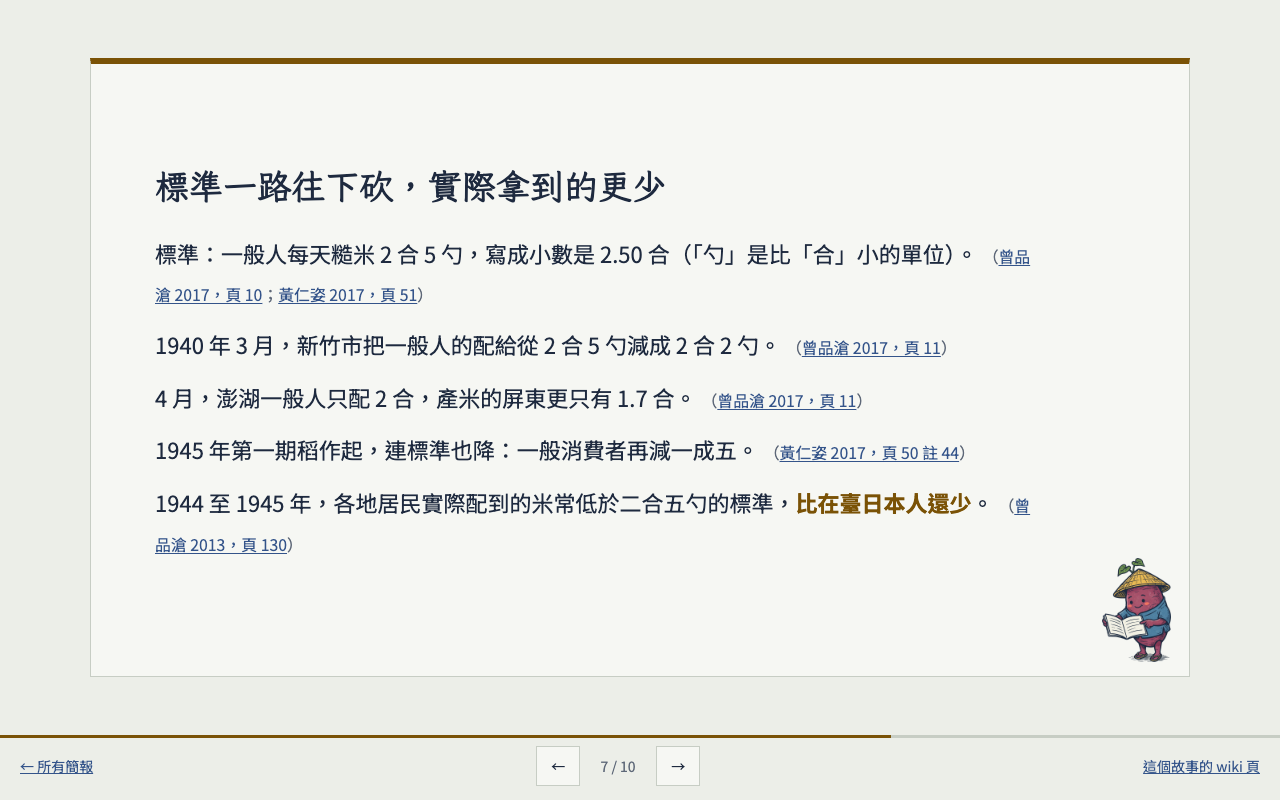
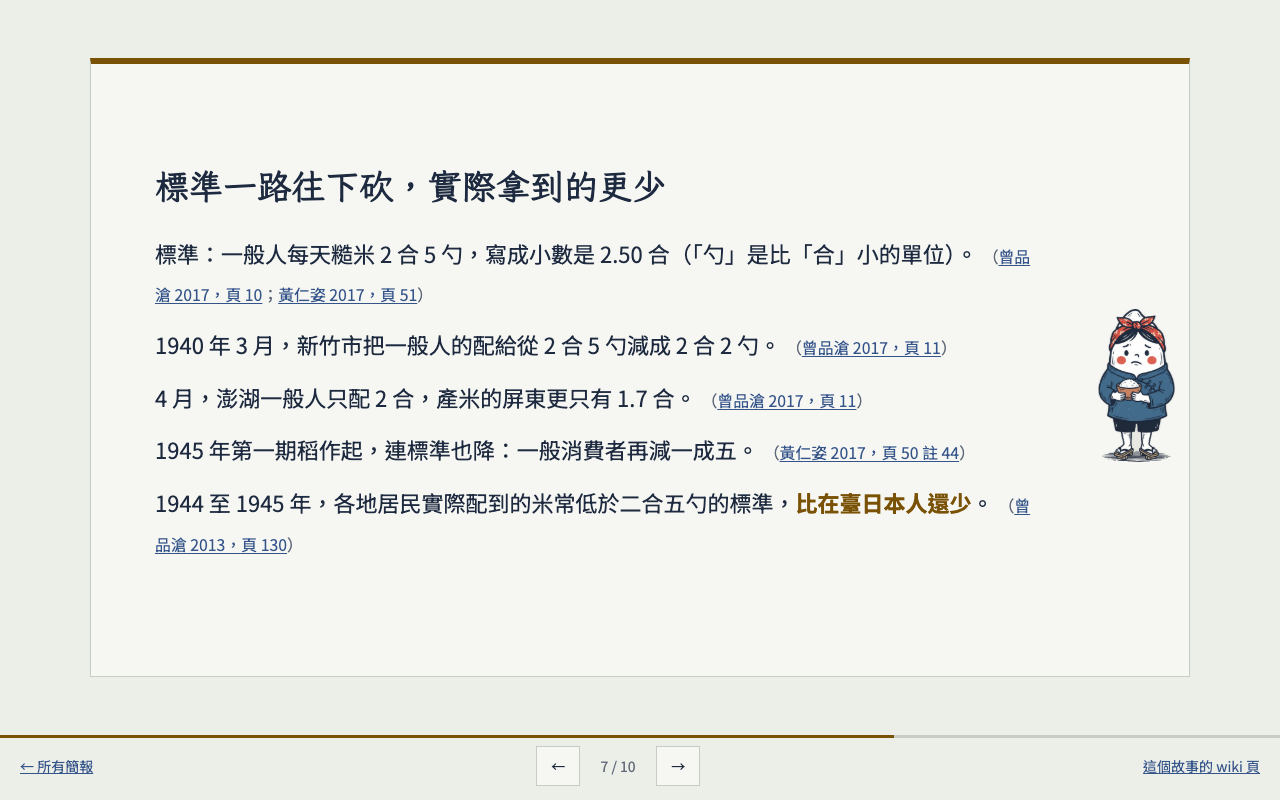
吉祥物依內容指定頁面與位置，顯示時自動避開文字

Changed region(s): [[0.8438, 0.375, 0.9375, 0.5938], [0.8438, 0.6875, 0.9375, 0.8438]]

diff --git a/slides/t-rice-ration/deck.html b/slides/t-rice-ration/deck.html
@@ -84,8 +84,8 @@ figcaption{font-size:.8em;color:var(--muted)}
 }
 /* 吉祥物：每次開啟隨機挑角色與頁面，放在頁角，不擋字 */
 .slide{position:relative}
-.mascot{position:absolute;bottom:14px;height:clamp(84px,17%,150px);width:auto;pointer-events:none;user-select:none}
-.mascot.r{right:18px} .mascot.l{left:18px}
+.mascot{position:absolute;height:clamp(96px,25%,190px);width:auto;pointer-events:none;user-select:none}
+.at-br{right:18px;bottom:14px}.at-tr{right:22px;top:16px}.at-bl{left:18px;bottom:14px}.at-tl{left:22px;top:16px}.at-mr{right:14px;top:40%}
 .mascot.flip{transform:scaleX(-1)}
 </style>
 </head>
@@ -94,13 +94,13 @@ figcaption{font-size:.8em;color:var(--muted)}
 <section class="slide layout-cover" id="p1" aria-label="第 1 頁"><div class="inner"><div class="cover"><div class="ticket"><span class="stub">主</span><div><p class="series">戰時餐桌・故事簡報</p><h1>一天能吃多少米？</h1><p class="sub">1940 年起，農家多的米要交給政府，大家吃的米由政府來分配。</p><p class="meta">臺灣 1939–1945　·　共 10 頁　·　用 ← → 或滑動翻頁</p></div></div><img class="cover-img" src="../../assets/img/t-rice-ration.jpg" alt="木刻版畫風插畫：田邊的收購場，農民挑著稻穀排隊，辦事員用大秤秤重、登記。"></div></div></section>
 <section class="slide layout-goals" id="p2" aria-label="第 2 頁"><div class="inner"><h2>看完這份簡報，你能……</h2><ol class='goals'><li>說得出 1940 年起，米從農家到餐桌要經過哪些關卡</li><li>能舉出一個數字，說明配給的「標準」和人們「實際」拿到的差多少</li><li>能說出兩種人們面對配給不足的應變方法</li></ol></div></section>
 <section class="slide layout-text" id="p3" aria-label="第 3 頁"><div class="inner"><h2>為什麼 1940 年開始管米？</h2><p>1939 年朝鮮大旱，隔年朝鮮運到日本的米，從 5,690 千石掉到 395 千石（石是當時量米的容量單位）。 <span class="cites">（<a class="cite" href="https://github.com/YuCecil/wartime-food-wiki/blob/main/wiki/sources/s-2009-li-grain-regulation.md" target="_blank" rel="noopener">李力庸 2009，頁 77</a>）</span></p><p>日本只好要臺灣補上缺口：1940 年臺灣要運出 5,000 千石，比前一年更多。 <span class="cites">（<a class="cite" href="https://github.com/YuCecil/wartime-food-wiki/blob/main/wiki/sources/s-2009-li-grain-regulation.md" target="_blank" rel="noopener">李力庸 2009，頁 77–78</a>）</span></p><p>同年 5 月，臺灣總督府宣布：一期稻作的米全部由政府管理。 <span class="cites">（<a class="cite" href="https://github.com/YuCecil/wartime-food-wiki/blob/main/wiki/sources/s-2017-huang-wartime-food-management.md" target="_blank" rel="noopener">黃仁姿 2017，頁 46–47</a>）</span></p><p>日本本土要到 10 月才跟進，<strong>殖民地反而比本土早一步</strong>。 <span class="cites">（<a class="cite" href="https://github.com/YuCecil/wartime-food-wiki/blob/main/wiki/sources/s-2017-huang-wartime-food-management.md" target="_blank" rel="noopener">黃仁姿 2017，頁 47</a>）</span></p></div></section>
-<section class="slide layout-text" id="p4" aria-label="第 4 頁"><div class="inner"><h2>米從田裡到餐桌的關卡</h2><p><strong>收米</strong>：農家扣掉自己要吃的和種子，其餘由政府用公定價格強制收購。 <span class="cites">（<a class="cite" href="https://github.com/YuCecil/wartime-food-wiki/blob/main/wiki/sources/s-2017-tseng-table-war.md" target="_blank" rel="noopener">曾品滄 2017，頁 9</a>）</span></p><p><strong>綁住</strong>：沒交足規定的量，就領不到配給。 <span class="cites">（<a class="cite" href="https://github.com/YuCecil/wartime-food-wiki/blob/main/wiki/sources/s-2015-tseng-postwar-food-control.md" target="_blank" rel="noopener">曾獻緯 2015，頁 59</a>）</span></p><p><strong>盯著</strong>：經濟警察負責確保糧食配給、限制自由買賣。 <span class="cites">（<a class="cite" href="https://github.com/YuCecil/wartime-food-wiki/blob/main/wiki/sources/s-2025-lu-police-society.md" target="_blank" rel="noopener">陸文楓 2025，頁 47</a>）</span></p><p><strong>分米</strong>：1943 年底起，配給交給新成立、專管糧食配給的「台灣食糧營團」，收購由農業會負責。 <span class="cites">（<a class="cite" href="https://github.com/YuCecil/wartime-food-wiki/blob/main/wiki/sources/s-2019-huang-irrigation-farm-org.md" target="_blank" rel="noopener">黃仁姿、薛化元 2019，頁 133</a>；<a class="cite" href="https://github.com/YuCecil/wartime-food-wiki/blob/main/wiki/sources/s-2009-li-grain-regulation.md" target="_blank" rel="noopener">李力庸 2009，頁 97</a>）</span></p><p><strong>買米</strong>：一般家庭拿著配給券，大約一個月去買兩次米。 <span class="cites">（<a class="cite" href="https://github.com/YuCecil/wartime-food-wiki/blob/main/wiki/sources/s-2009-li-grain-regulation.md" target="_blank" rel="noopener">李力庸 2009，頁 93</a>）</span></p></div></section>
-<section class="slide layout-number" id="p5" aria-label="第 5 頁"><div class="inner"><h2>收成的米，有多少要交出去？</h2><p class="big"><span class="stamp-num">85.30%</span><span class="big-label">1944 年，臺灣的米交給政府的比例</span></p><p>這個比例叫「供出率」：交給政府的量，占實際收成的多少。 <span class="cites">（<a class="cite" href="https://github.com/YuCecil/wartime-food-wiki/blob/main/wiki/sources/s-2009-li-grain-regulation.md" target="_blank" rel="noopener">李力庸 2009，頁 94</a>）</span></p><p>同一年，朝鮮是 63.47%，日本本土是 60.46%，<strong>臺灣最高</strong>。 <span class="cites">（<a class="cite" href="https://github.com/YuCecil/wartime-food-wiki/blob/main/wiki/sources/s-2009-li-grain-regulation.md" target="_blank" rel="noopener">李力庸 2009，頁 94</a>）</span></p></div></section>
+<section class="slide layout-text" data-mascot="../../assets/mascots/pig/ticket.png" data-spot="br" id="p4" aria-label="第 4 頁"><div class="inner"><h2>米從田裡到餐桌的關卡</h2><p><strong>收米</strong>：農家扣掉自己要吃的和種子，其餘由政府用公定價格強制收購。 <span class="cites">（<a class="cite" href="https://github.com/YuCecil/wartime-food-wiki/blob/main/wiki/sources/s-2017-tseng-table-war.md" target="_blank" rel="noopener">曾品滄 2017，頁 9</a>）</span></p><p><strong>綁住</strong>：沒交足規定的量，就領不到配給。 <span class="cites">（<a class="cite" href="https://github.com/YuCecil/wartime-food-wiki/blob/main/wiki/sources/s-2015-tseng-postwar-food-control.md" target="_blank" rel="noopener">曾獻緯 2015，頁 59</a>）</span></p><p><strong>盯著</strong>：經濟警察負責確保糧食配給、限制自由買賣。 <span class="cites">（<a class="cite" href="https://github.com/YuCecil/wartime-food-wiki/blob/main/wiki/sources/s-2025-lu-police-society.md" target="_blank" rel="noopener">陸文楓 2025，頁 47</a>）</span></p><p><strong>分米</strong>：1943 年底起，配給交給新成立、專管糧食配給的「台灣食糧營團」，收購由農業會負責。 <span class="cites">（<a class="cite" href="https://github.com/YuCecil/wartime-food-wiki/blob/main/wiki/sources/s-2019-huang-irrigation-farm-org.md" target="_blank" rel="noopener">黃仁姿、薛化元 2019，頁 133</a>；<a class="cite" href="https://github.com/YuCecil/wartime-food-wiki/blob/main/wiki/sources/s-2009-li-grain-regulation.md" target="_blank" rel="noopener">李力庸 2009，頁 97</a>）</span></p><p><strong>買米</strong>：一般家庭拿著配給券，大約一個月去買兩次米。 <span class="cites">（<a class="cite" href="https://github.com/YuCecil/wartime-food-wiki/blob/main/wiki/sources/s-2009-li-grain-regulation.md" target="_blank" rel="noopener">李力庸 2009，頁 93</a>）</span></p></div></section>
+<section class="slide layout-number" data-mascot="../../assets/mascots/cassava/sack.png" data-spot="tr" id="p5" aria-label="第 5 頁"><div class="inner"><h2>收成的米，有多少要交出去？</h2><p class="big"><span class="stamp-num">85.30%</span><span class="big-label">1944 年，臺灣的米交給政府的比例</span></p><p>這個比例叫「供出率」：交給政府的量，占實際收成的多少。 <span class="cites">（<a class="cite" href="https://github.com/YuCecil/wartime-food-wiki/blob/main/wiki/sources/s-2009-li-grain-regulation.md" target="_blank" rel="noopener">李力庸 2009，頁 94</a>）</span></p><p>同一年，朝鮮是 63.47%，日本本土是 60.46%，<strong>臺灣最高</strong>。 <span class="cites">（<a class="cite" href="https://github.com/YuCecil/wartime-food-wiki/blob/main/wiki/sources/s-2009-li-grain-regulation.md" target="_blank" rel="noopener">李力庸 2009，頁 94</a>）</span></p></div></section>
 <section class="slide layout-number" id="p6" aria-label="第 6 頁"><div class="inner"><h2>一般成年人一天配到多少米？</h2><p class="big"><span class="stamp-num">330 公克</span><span class="big-label">1942 年起，一般成年人每天的配給標準（七分搗米）</span></p><p>米的配給量，最初是照營養學家推算的每日所需熱量的<strong>八成</strong>來訂的。 <span class="cites">（<a class="cite" href="https://github.com/YuCecil/wartime-food-wiki/blob/main/wiki/sources/s-2017-tseng-table-war.md" target="_blank" rel="noopener">曾品滄 2017，頁 10</a>）</span></p><p>工作越重配越多：重勞動者 520 公克，輕勞動者、青少年、孕婦 390 公克。 <span class="cites">（<a class="cite" href="https://github.com/YuCecil/wartime-food-wiki/blob/main/wiki/sources/s-2017-tseng-table-war.md" target="_blank" rel="noopener">曾品滄 2017，頁 10</a>）</span></p><p>330 公克的七分搗米約是 2 合 3 勺；臺灣用糙米（只去殼、沒碾白的米）計算，就是 <strong>2 合 5 勺</strong>。 <span class="cites">（<a class="cite" href="https://github.com/YuCecil/wartime-food-wiki/blob/main/wiki/sources/s-2017-huang-wartime-food-management.md" target="_blank" rel="noopener">黃仁姿 2017，頁 41 註 17</a>）</span></p></div></section>
-<section class="slide layout-text" id="p7" aria-label="第 7 頁"><div class="inner"><h2>標準一路往下砍，實際拿到的更少</h2><p>標準：一般人每天糙米 2 合 5 勺，寫成小數是 2.50 合（「勺」是比「合」小的單位）。 <span class="cites">（<a class="cite" href="https://github.com/YuCecil/wartime-food-wiki/blob/main/wiki/sources/s-2017-tseng-table-war.md" target="_blank" rel="noopener">曾品滄 2017，頁 10</a>；<a class="cite" href="https://github.com/YuCecil/wartime-food-wiki/blob/main/wiki/sources/s-2017-huang-wartime-food-management.md" target="_blank" rel="noopener">黃仁姿 2017，頁 51</a>）</span></p><p>1940 年 3 月，新竹市把一般人的配給從 2 合 5 勺減成 2 合 2 勺。 <span class="cites">（<a class="cite" href="https://github.com/YuCecil/wartime-food-wiki/blob/main/wiki/sources/s-2017-tseng-table-war.md" target="_blank" rel="noopener">曾品滄 2017，頁 11</a>）</span></p><p>4 月，澎湖一般人只配 2 合，產米的屏東更只有 1.7 合。 <span class="cites">（<a class="cite" href="https://github.com/YuCecil/wartime-food-wiki/blob/main/wiki/sources/s-2017-tseng-table-war.md" target="_blank" rel="noopener">曾品滄 2017，頁 11</a>）</span></p><p>1945 年第一期稻作起，連標準也降：一般消費者再減一成五。 <span class="cites">（<a class="cite" href="https://github.com/YuCecil/wartime-food-wiki/blob/main/wiki/sources/s-2017-huang-wartime-food-management.md" target="_blank" rel="noopener">黃仁姿 2017，頁 50 註 44</a>）</span></p><p>1944 至 1945 年，各地居民實際配到的米常低於二合五勺的標準，<strong>比在臺日本人還少</strong>。 <span class="cites">（<a class="cite" href="https://github.com/YuCecil/wartime-food-wiki/blob/main/wiki/sources/s-2013-tseng-hometown.md" target="_blank" rel="noopener">曾品滄 2013，頁 130</a>）</span></p></div></section>
+<section class="slide layout-text" data-mascot="../../assets/mascots/rice/bowl.png" data-spot="mr" id="p7" aria-label="第 7 頁"><div class="inner"><h2>標準一路往下砍，實際拿到的更少</h2><p>標準：一般人每天糙米 2 合 5 勺，寫成小數是 2.50 合（「勺」是比「合」小的單位）。 <span class="cites">（<a class="cite" href="https://github.com/YuCecil/wartime-food-wiki/blob/main/wiki/sources/s-2017-tseng-table-war.md" target="_blank" rel="noopener">曾品滄 2017，頁 10</a>；<a class="cite" href="https://github.com/YuCecil/wartime-food-wiki/blob/main/wiki/sources/s-2017-huang-wartime-food-management.md" target="_blank" rel="noopener">黃仁姿 2017，頁 51</a>）</span></p><p>1940 年 3 月，新竹市把一般人的配給從 2 合 5 勺減成 2 合 2 勺。 <span class="cites">（<a class="cite" href="https://github.com/YuCecil/wartime-food-wiki/blob/main/wiki/sources/s-2017-tseng-table-war.md" target="_blank" rel="noopener">曾品滄 2017，頁 11</a>）</span></p><p>4 月，澎湖一般人只配 2 合，產米的屏東更只有 1.7 合。 <span class="cites">（<a class="cite" href="https://github.com/YuCecil/wartime-food-wiki/blob/main/wiki/sources/s-2017-tseng-table-war.md" target="_blank" rel="noopener">曾品滄 2017，頁 11</a>）</span></p><p>1945 年第一期稻作起，連標準也降：一般消費者再減一成五。 <span class="cites">（<a class="cite" href="https://github.com/YuCecil/wartime-food-wiki/blob/main/wiki/sources/s-2017-huang-wartime-food-management.md" target="_blank" rel="noopener">黃仁姿 2017，頁 50 註 44</a>）</span></p><p>1944 至 1945 年，各地居民實際配到的米常低於二合五勺的標準，<strong>比在臺日本人還少</strong>。 <span class="cites">（<a class="cite" href="https://github.com/YuCecil/wartime-food-wiki/blob/main/wiki/sources/s-2013-tseng-hometown.md" target="_blank" rel="noopener">曾品滄 2013，頁 130</a>）</span></p></div></section>
 <section class="slide layout-compare" id="p8" aria-label="第 8 頁"><div class="inner"><h2>帳面上夠吃，生活裡不夠吃？</h2><div class="compare"><div class="side"><p class="who">一種說法</p><p>歷史學者黃仁姿用統計推算，到 1944 年為止臺灣的米都還有剩，1945 年才不足將近 160 萬石。 <span class="cites">（<a class="cite" href="https://github.com/YuCecil/wartime-food-wiki/blob/main/wiki/sources/s-2017-huang-wartime-food-management.md" target="_blank" rel="noopener">黃仁姿 2017，頁 64</a>）</span></p></div><div class="side"><p class="who">另一種說法</p><p>歷史學者曾獻緯寫道，配給的食物總是不夠，有時一連幾天用地瓜或麵包代替三餐。 <span class="cites">（<a class="cite" href="https://github.com/YuCecil/wartime-food-wiki/blob/main/wiki/sources/s-2015-tseng-postwar-food-control.md" target="_blank" rel="noopener">曾獻緯 2015，頁 59</a>）</span></p></div></div><p>黃仁姿自己也注意到這個落差：一個月份的配給米，往往只撐二十多天。 <span class="cites">（<a class="cite" href="https://github.com/YuCecil/wartime-food-wiki/blob/main/wiki/sources/s-2017-huang-wartime-food-management.md" target="_blank" rel="noopener">黃仁姿 2017，頁 65</a>）</span></p><p>米去了哪裡？她推測可能流向軍隊：終戰前在臺陸軍約 30 萬人。 <span class="cites">（<a class="cite" href="https://github.com/YuCecil/wartime-food-wiki/blob/main/wiki/sources/s-2017-huang-wartime-food-management.md" target="_blank" rel="noopener">黃仁姿 2017，頁 63 註 83</a>）</span></p></div></section>
-<section class="slide layout-text" id="p9" aria-label="第 9 頁"><div class="inner"><h2>米不夠吃，大家怎麼辦？</h2><p><strong>吃番薯</strong>：1944 年臺灣的番薯只交出 6.28%，作者推測大家用大量番薯代替米。 <span class="cites">（<a class="cite" href="https://github.com/YuCecil/wartime-food-wiki/blob/main/wiki/sources/s-2009-li-grain-regulation.md" target="_blank" rel="noopener">李力庸 2009，頁 94</a>）</span></p><p>住在臺中霧峰的林獻堂在日記裡寫，配給米減了兩成，「非以蕃薯代用不可」。 <span class="cites">（<a class="cite" href="https://github.com/YuCecil/wartime-food-wiki/blob/main/wiki/sources/s-2017-tseng-table-war.md" target="_blank" rel="noopener">曾品滄 2017，頁 11–12</a>）</span></p><p><strong>找黑市</strong>：配給米不夠，就透過黑市買，或在飯裡摻番薯籤。 <span class="cites">（<a class="cite" href="https://github.com/YuCecil/wartime-food-wiki/blob/main/wiki/sources/s-2017-huang-wartime-food-management.md" target="_blank" rel="noopener">黃仁姿 2017，頁 65</a>）</span></p><p><strong>藏起來</strong>：佃農會把粟（稻穀）藏起來。張文環想用義勇報國隊的名義去搜，林獻堂勸他別用這個名義，怕惹人怨恨。 <span class="cites">（<a class="cite" href="https://github.com/YuCecil/wartime-food-wiki/blob/main/wiki/sources/s-2025-lu-police-society.md" target="_blank" rel="noopener">陸文楓 2025，頁 53</a>）</span></p><p>義勇報國隊是總督府 1944 年 8 月底打算設立的民兵組織。 <span class="cites">（<a class="cite" href="https://github.com/YuCecil/wartime-food-wiki/blob/main/wiki/sources/s-2025-lu-police-society.md" target="_blank" rel="noopener">陸文楓 2025，頁 52</a>）</span></p></div></section>
-<section class="slide layout-check" id="p10" aria-label="第 10 頁"><div class="inner"><h2>自我檢查</h2><ol class='qa'><li><p>戰爭末期（1943 年底以後），一般家庭怎麼拿到米？</p><details><summary>看答案</summary><p>農家的米由政府收購，交給食糧營團配給，家庭拿配給券去買。（第 4 頁）</p></details></li><li><p>1940 年起一般人每天的配給標準是多少？哪裡配得比標準少？</p><details><summary>看答案</summary><p>標準是糙米 2 合 5 勺；1940 年新竹減成 2 合 2 勺，澎湖 2 合，屏東只有 1.7 合。（第 7 頁）</p></details></li><li><p>舉出兩種人們面對配給不足的辦法。</p><details><summary>看答案</summary><p>用番薯代替米、到黑市買、在飯裡摻番薯籤、把稻穀藏起來（任兩種）。（第 9 頁）</p></details></li></ol></div></section>
+<section class="slide layout-text" data-mascot="../../assets/mascots/sweetpotato/basket.png" data-spot="br" id="p9" aria-label="第 9 頁"><div class="inner"><h2>米不夠吃，大家怎麼辦？</h2><p><strong>吃番薯</strong>：1944 年臺灣的番薯只交出 6.28%，作者推測大家用大量番薯代替米。 <span class="cites">（<a class="cite" href="https://github.com/YuCecil/wartime-food-wiki/blob/main/wiki/sources/s-2009-li-grain-regulation.md" target="_blank" rel="noopener">李力庸 2009，頁 94</a>）</span></p><p>住在臺中霧峰的林獻堂在日記裡寫，配給米減了兩成，「非以蕃薯代用不可」。 <span class="cites">（<a class="cite" href="https://github.com/YuCecil/wartime-food-wiki/blob/main/wiki/sources/s-2017-tseng-table-war.md" target="_blank" rel="noopener">曾品滄 2017，頁 11–12</a>）</span></p><p><strong>找黑市</strong>：配給米不夠，就透過黑市買，或在飯裡摻番薯籤。 <span class="cites">（<a class="cite" href="https://github.com/YuCecil/wartime-food-wiki/blob/main/wiki/sources/s-2017-huang-wartime-food-management.md" target="_blank" rel="noopener">黃仁姿 2017，頁 65</a>）</span></p><p><strong>藏起來</strong>：佃農會把粟（稻穀）藏起來。張文環想用義勇報國隊的名義去搜，林獻堂勸他別用這個名義，怕惹人怨恨。 <span class="cites">（<a class="cite" href="https://github.com/YuCecil/wartime-food-wiki/blob/main/wiki/sources/s-2025-lu-police-society.md" target="_blank" rel="noopener">陸文楓 2025，頁 53</a>）</span></p><p>義勇報國隊是總督府 1944 年 8 月底打算設立的民兵組織。 <span class="cites">（<a class="cite" href="https://github.com/YuCecil/wartime-food-wiki/blob/main/wiki/sources/s-2025-lu-police-society.md" target="_blank" rel="noopener">陸文楓 2025，頁 52</a>）</span></p></div></section>
+<section class="slide layout-check" data-mascot="../../assets/mascots/pig/thinking.png" data-spot="bl" id="p10" aria-label="第 10 頁"><div class="inner"><h2>自我檢查</h2><ol class='qa'><li><p>戰爭末期（1943 年底以後），一般家庭怎麼拿到米？</p><details><summary>看答案</summary><p>農家的米由政府收購，交給食糧營團配給，家庭拿配給券去買。（第 4 頁）</p></details></li><li><p>1940 年起一般人每天的配給標準是多少？哪裡配得比標準少？</p><details><summary>看答案</summary><p>標準是糙米 2 合 5 勺；1940 年新竹減成 2 合 2 勺，澎湖 2 合，屏東只有 1.7 合。（第 7 頁）</p></details></li><li><p>舉出兩種人們面對配給不足的辦法。</p><details><summary>看答案</summary><p>用番薯代替米、到黑市買、在飯裡摻番薯籤、把稻穀藏起來（任兩種）。（第 9 頁）</p></details></li></ol></div></section>
 </main>
 <div class="progress" aria-hidden="true"><span id="prog"></span></div>
 <nav class="bar" aria-label="翻頁">
@@ -132,12 +132,21 @@ addEventListener('touchend',e=>{if(sx===null)return;const dx=e.changedTouches[0]
   if(Math.abs(dx)>50&&Math.abs(dx)>Math.abs(dy))go(cur+(dx<0?1:-1));sx=null;},{passive:true});
 go(parseInt(location.hash.slice(1))||1);
 
-/* 吉祥物清單由 tools/slides.py build 從 assets/mascots/ 產生 */
-(()=>{const M=["../../assets/mascots/cassava/pointing.png", "../../assets/mascots/cassava/sack.png", "../../assets/mascots/pig/thinking.png", "../../assets/mascots/pig/ticket.png", "../../assets/mascots/rice/book.png", "../../assets/mascots/rice/bowl.png", "../../assets/mascots/sweetpotato/basket.png", "../../assets/mascots/sweetpotato/book.png", "../../assets/mascots/sweetpotato/bowl.png"];if(!M.length)return;
-const pages=[...document.querySelectorAll('.slide')].filter(s=>!s.classList.contains('layout-cover'));
-const pick=a=>a[Math.floor(Math.random()*a.length)];
-const n=Math.min(pages.length,3+Math.floor(Math.random()*2));
-pages.sort(()=>Math.random()-.5).slice(0,n).forEach(s=>{const i=new Image();i.src=pick(M);i.alt='';i.className='mascot r'+(Math.random()<.3?' flip':'')  /* 只放右下角：左下角在字多的頁會擋到字（已實測） */;s.appendChild(i)})})();
+/* 吉祥物：script.md 每頁可選一行「吉祥物：角色/姿勢」，由寫稿的人依內容挑。
+   位置在顯示時才決定：依頁碼輪換優先順序，挑第一個不擋到文字的角落；都會擋就不放。 */
+const SPOTS=['br','tr','bl','mr','tl'];
+function placeMascot(s,n){const src=s.dataset.mascot;if(!src||s.dataset.placed)return;s.dataset.placed=1;
+  const img=new Image();img.alt='';img.className='mascot';img.src=src;
+  img.onload=()=>{const txt=[...s.querySelectorAll('.inner h2,.inner p,.inner li,.inner .big,.inner .compare,.inner figure,.inner .cover')]
+      .map(e=>{const r=e.getBoundingClientRect(),range=document.createRange();range.selectNodeContents(e);const c=range.getBoundingClientRect();
+        return {l:c.left||r.left,r:(c.right||r.right),t:r.top,b:r.bottom}});
+    const rot=SPOTS.slice(n%SPOTS.length).concat(SPOTS.slice(0,n%SPOTS.length));const order=[...new Set([s.dataset.spot,...rot].filter(Boolean))];
+    s.appendChild(img);
+    for(const sp of order){img.className='mascot at-'+sp+(n%3===1?' flip':'');const m=img.getBoundingClientRect();
+      if(!txt.some(x=>x.r>m.left-8&&x.l<m.right+8&&x.b>m.top-8&&x.t<m.bottom+8))return;}
+    img.remove();};}
+const _go=go;go=function(n){_go(n);placeMascot(slides[cur-1],cur)};
+placeMascot(slides[cur-1],cur);
 </script>
 </body>
 </html>

diff --git a/templates/deck.html b/templates/deck.html
@@ -84,8 +84,8 @@ figcaption{font-size:.8em;color:var(--muted)}
 }
 /* 吉祥物：每次開啟隨機挑角色與頁面，放在頁角，不擋字 */
 .slide{position:relative}
-.mascot{position:absolute;bottom:14px;height:clamp(84px,17%,150px);width:auto;pointer-events:none;user-select:none}
-.mascot.r{right:18px} .mascot.l{left:18px}
+.mascot{position:absolute;height:clamp(96px,25%,190px);width:auto;pointer-events:none;user-select:none}
+.at-br{right:18px;bottom:14px}.at-tr{right:22px;top:16px}.at-bl{left:18px;bottom:14px}.at-tl{left:22px;top:16px}.at-mr{right:14px;top:40%}
 .mascot.flip{transform:scaleX(-1)}
 </style>
 </head>
@@ -123,12 +123,21 @@ addEventListener('touchend',e=>{if(sx===null)return;const dx=e.changedTouches[0]
   if(Math.abs(dx)>50&&Math.abs(dx)>Math.abs(dy))go(cur+(dx<0?1:-1));sx=null;},{passive:true});
 go(parseInt(location.hash.slice(1))||1);
 
-/* 吉祥物清單由 tools/slides.py build 從 assets/mascots/ 產生 */
-(()=>{const M={{MASCOTS}};if(!M.length)return;
-const pages=[...document.querySelectorAll('.slide')].filter(s=>!s.classList.contains('layout-cover'));
-const pick=a=>a[Math.floor(Math.random()*a.length)];
-const n=Math.min(pages.length,3+Math.floor(Math.random()*2));
-pages.sort(()=>Math.random()-.5).slice(0,n).forEach(s=>{const i=new Image();i.src=pick(M);i.alt='';i.className='mascot r'+(Math.random()<.3?' flip':'')  /* 只放右下角：左下角在字多的頁會擋到字（已實測） */;s.appendChild(i)})})();
+/* 吉祥物：script.md 每頁可選一行「吉祥物：角色/姿勢」，由寫稿的人依內容挑。
+   位置在顯示時才決定：依頁碼輪換優先順序，挑第一個不擋到文字的角落；都會擋就不放。 */
+const SPOTS=['br','tr','bl','mr','tl'];
+function placeMascot(s,n){const src=s.dataset.mascot;if(!src||s.dataset.placed)return;s.dataset.placed=1;
+  const img=new Image();img.alt='';img.className='mascot';img.src=src;
+  img.onload=()=>{const txt=[...s.querySelectorAll('.inner h2,.inner p,.inner li,.inner .big,.inner .compare,.inner figure,.inner .cover')]
+      .map(e=>{const r=e.getBoundingClientRect(),range=document.createRange();range.selectNodeContents(e);const c=range.getBoundingClientRect();
+        return {l:c.left||r.left,r:(c.right||r.right),t:r.top,b:r.bottom}});
+    const rot=SPOTS.slice(n%SPOTS.length).concat(SPOTS.slice(0,n%SPOTS.length));const order=[...new Set([s.dataset.spot,...rot].filter(Boolean))];
+    s.appendChild(img);
+    for(const sp of order){img.className='mascot at-'+sp+(n%3===1?' flip':'');const m=img.getBoundingClientRect();
+      if(!txt.some(x=>x.r>m.left-8&&x.l<m.right+8&&x.b>m.top-8&&x.t<m.bottom+8))return;}
+    img.remove();};}
+const _go=go;go=function(n){_go(n);placeMascot(slides[cur-1],cur)};
+placeMascot(slides[cur-1],cur);
 </script>
 </body>
 </html>

diff --git a/tools/slides.py b/tools/slides.py
@@ -271,7 +271,7 @@ def parse_script(tid):
 
 
 def plain(s):
-    return re.sub(r"^(大數字|說明|甲說|乙說|圖|答案|副標|- |\d+\. )：?", "", CITE.sub("", s)).strip()
+    return re.sub(r"^(大數字|說明|甲說|乙說|圖|答案|副標|吉祥物|- |\d+\. )：?", "", CITE.sub("", s)).strip()
 
 
 def cjk_len(s):
@@ -285,12 +285,20 @@ def cmd_script(tid):
         return finish(tid, "逐頁稿", ["沒有 script.md，或標題格式不是「## 頁碼 | 版型 | 標題」"], "⑤ 逐頁稿")
     cards = parse_cards(tid)
     _, opages = parse_outline(tid) or ([], [])
+    mascot_pages = []
     if len(pages) != len([p for p in opages if "bad" not in p]):
         problems.append(f"逐頁稿 {len(pages)} 頁，跟確認過的大綱頁數不一樣")
     for p in pages:
         w = f"第 {p['n']} 頁"
         if p["layout"] not in LAYOUTS:
             problems.append(f"{w}：版型 {p['layout']} 不存在")
+        mas = [l for l in p["lines"] if l.startswith("吉祥物：")]
+        p["lines"] = [l for l in p["lines"] if not l.startswith("吉祥物：")]
+        for l in mas:
+            name = l.split("：", 1)[1].split("｜")[0].strip().partition("@")[0]
+            if not (ROOT / "assets/mascots" / f"{name}.png").exists():
+                problems.append(f"{w}：吉祥物 {name} 不存在（要是 assets/mascots/<角色>/<姿勢>.png）")
+            mascot_pages.append(p["n"])
         n = cjk_len(p["title"]) + sum(cjk_len(plain(l)) for l in p["lines"])
         if n > MAX_CHARS:
             problems.append(f"{w}：{n} 字，超過 {MAX_CHARS} 字（手機會放不下）")
@@ -337,6 +345,8 @@ def cmd_script(tid):
             missing = [b for b in sorted(bases) if b not in page_text]
             if missing:
                 problems.append(f"{w}：這頁混用了 {'、'.join(sorted(bases))} 的量，但頁面上沒寫出「{'、'.join(missing)}」，讀者會拿不同基準的數字直接比")
+    if len(mascot_pages) > len(pages) // 2:
+        problems.append(f"吉祥物放了 {len(mascot_pages)} 頁，最多一半（{len(pages) // 2} 頁），只放在跟內容有關的頁")
     return finish(tid, "逐頁稿", problems, "⑤ 逐頁稿：只修列出的那幾頁（證據卡本身錯就退回 ③）")
 
 
@@ -388,7 +398,12 @@ def cmd_build(tid):
         title = html.escape(p["title"])
         lines = p["lines"]
         get = lambda k: [l for l in lines if l.startswith(k)]
-        rest = [l for l in lines if not l.startswith(("大數字：", "甲說：", "乙說：", "圖：", "副標：", "答案："))]
+        rest = [l for l in lines if not l.startswith(("大數字：", "甲說：", "乙說：", "圖：", "副標：", "答案：", "吉祥物："))]
+        mz = get("吉祥物：")
+        mattr = ""
+        if mz:  # 吉祥物：角色/姿勢@位置｜理由；位置可省略（br 右下、tr 右上、bl 左下、tl 左上、mr 右側中間）
+            nm, _, spot = mz[0].split("：", 1)[1].split("｜")[0].strip().partition("@")
+            mattr = f' data-mascot="../../assets/mascots/{html.escape(nm)}.png"' + (f' data-spot="{html.escape(spot)}"' if spot else "")
         inner = ""
         if L == "cover":
             sub = html.escape(plain(get("副標：")[0])) if get("副標：") else ""
@@ -427,13 +442,12 @@ def cmd_build(tid):
             if L == "quote":
                 body = f"<blockquote>{body}</blockquote>"
             inner = f"<h2>{title}</h2>{body}"
-        secs.append(f'<section class="slide layout-{L}" id="p{p["n"]}" aria-label="第 {p["n"]} 頁"><div class="inner">{inner}</div></section>')
+        secs.append(f'<section class="slide layout-{L}"{mattr} id="p{p["n"]}" aria-label="第 {p["n"]} 頁"><div class="inner">{inner}</div></section>')
     tpl = (ROOT / "templates/deck.html").read_text(encoding="utf-8")
     out = (tpl.replace("{{TITLE}}", html.escape(meta["title"])).replace("{{CAT}}", cat)
            .replace("{{SLIDES}}", "\n".join(secs))
            .replace("{{WIKI}}", f"{GITHUB}wiki/topics/{tid}.md")
-           .replace("{{TOTAL}}", str(len(pages)))
-           .replace("{{MASCOTS}}", json.dumps(sorted(f"../../{m.relative_to(ROOT).as_posix()}" for m in (ROOT / "assets/mascots").glob("*/*.png")))))
+           .replace("{{TOTAL}}", str(len(pages))))
     (d(tid) / "deck.html").write_text(out, encoding="utf-8")
     print(f"已產生 slides/{tid}/deck.html（{len(pages)} 頁）")
 

diff --git a/slides/t-rice-ration/script.md b/slides/t-rice-ration/script.md
@@ -15,6 +15,7 @@
 日本本土要到 10 月才跟進，**殖民地反而比本土早一步**。[s-2017-huang-wartime-food-management#E2]
 
 ## 4 | text | 米從田裡到餐桌的關卡
+吉祥物：pig/ticket@br｜第 4 頁講配給券
 **收米**：農家扣掉自己要吃的和種子，其餘由政府用公定價格強制收購。[s-2017-tseng-table-war#E2]
 **綁住**：沒交足規定的量，就領不到配給。[s-2015-tseng-postwar-food-control#E2]
 **盯著**：經濟警察負責確保糧食配給、限制自由買賣。[s-2025-lu-police-society#E1]
@@ -22,6 +23,7 @@
 **買米**：一般家庭拿著配給券，大約一個月去買兩次米。[s-2009-li-grain-regulation#E6]
 
 ## 5 | number | 收成的米，有多少要交出去？
+吉祥物：cassava/sack@tr｜第 5 頁講米交出去
 大數字：85.30%｜1944 年，臺灣的米交給政府的比例 [s-2009-li-grain-regulation#E3]
 這個比例叫「供出率」：交給政府的量，占實際收成的多少。[s-2009-li-grain-regulation#E3]
 同一年，朝鮮是 63.47%，日本本土是 60.46%，**臺灣最高**。[s-2009-li-grain-regulation#E3]
@@ -33,6 +35,7 @@
 330 公克的七分搗米約是 2 合 3 勺；臺灣用糙米（只去殼、沒碾白的米）計算，就是 **2 合 5 勺**。[s-2017-huang-wartime-food-management#E3]
 
 ## 7 | text | 標準一路往下砍，實際拿到的更少
+吉祥物：rice/bowl@mr｜第 7 頁講實際拿到的更少
 標準：一般人每天糙米 2 合 5 勺，寫成小數是 2.50 合（「勺」是比「合」小的單位）。[s-2017-tseng-table-war#E4][s-2017-huang-wartime-food-management#E9]
 1940 年 3 月，新竹市把一般人的配給從 2 合 5 勺減成 2 合 2 勺。[s-2017-tseng-table-war#E7]
 4 月，澎湖一般人只配 2 合，產米的屏東更只有 1.7 合。[s-2017-tseng-table-war#E7]
@@ -46,6 +49,7 @@
 米去了哪裡？她推測可能流向軍隊：終戰前在臺陸軍約 30 萬人。[s-2017-huang-wartime-food-management#E8]
 
 ## 9 | text | 米不夠吃，大家怎麼辦？
+吉祥物：sweetpotato/basket@br｜第 9 頁講用番薯代替米
 **吃番薯**：1944 年臺灣的番薯只交出 6.28%，作者推測大家用大量番薯代替米。[s-2009-li-grain-regulation#E3][s-2009-li-grain-regulation#E4]
 住在臺中霧峰的林獻堂在日記裡寫，配給米減了兩成，「非以蕃薯代用不可」。[s-2017-tseng-table-war#E8]
 **找黑市**：配給米不夠，就透過黑市買，或在飯裡摻番薯籤。[s-2017-huang-wartime-food-management#E5]
@@ -53,6 +57,7 @@
 義勇報國隊是總督府 1944 年 8 月底打算設立的民兵組織。[s-2025-lu-police-society#E4]
 
 ## 10 | check | 自我檢查
+吉祥物：pig/thinking@bl｜自我檢查
 1. 戰爭末期（1943 年底以後），一般家庭怎麼拿到米？
 答案：農家的米由政府收購，交給食糧營團配給，家庭拿配給券去買。（第 4 頁）
 2. 1940 年起一般人每天的配給標準是多少？哪裡配得比標準少？

diff --git a/wiki/log.md b/wiki/log.md
@@ -57,3 +57,8 @@
 - 使用者驗收米穀配給簡報時要求加吉祥物：多個角色、隨機配置。新增米粒妹、豬仔、樹薯伯各 2 個姿勢（Gemini 生成，haiku 子代理操作），沿用 W09 番薯仔 3 張；去背 PNG 放 assets/mascots/<角色>/<姿勢>.png，原圖在 raw/images/mascots/
 - templates/deck.html：每次開啟隨機挑 3–4 頁（封面除外）在右下角放一個角色；build 會自動掃 assets/mascots/，新增角色只要放進資料夾
 - 實測：左下角在第 7、9 頁會擋到字，所以只放右下角
+
+## [2026-11-18] rule | 吉祥物改成依內容指定
+- 使用者意見：吉祥物要融入簡報內容，不用每頁都放，位置不要都一樣
+- 改為在 script.md 該頁寫「吉祥物：角色/姿勢@位置｜理由」，由寫稿的人依內容挑；逐頁稿關卡檢查圖存在、最多一半頁數；顯示時先試指定位置，會擋字就換角落
+- t-rice-ration：第 4 頁豬仔舉配給券、第 5 頁樹薯伯扛米袋、第 7 頁米粒妹捧半碗飯、第 9 頁番薯仔提竹籃、第 10 頁豬仔托腮

diff --git a/.agents/workflows/story-slides.md b/.agents/workflows/story-slides.md
@@ -100,6 +100,7 @@ argument: 故事 id，例：t-rice-ration
 - 腳本只對得上「數字」，對不上「月份、打算 vs 已經做」這類意思；寫完自己再對一次證據卡的事實欄。
 - 每頁 170 字內。寫給沒人講解的讀者：完整句子、不用縮寫、第一次出現的名詞順手解釋。
 - `image` 版型寫 `圖：檔名.jpg｜一句話說明`，圖要在 `assets/img/`。
+- 吉祥物（可選）：在跟內容有關的頁加一行 `吉祥物：角色/姿勢@位置｜為什麼放這隻`，例如講配給券放 `pig/ticket`、講半碗飯放 `rice/bowl`。最多一半的頁數；位置 br／tr／bl／tl／mr，各頁錯開。角色清單看 `assets/mascots/`。顯示時若那個位置會擋到字，程式會自動換別的角落，都會擋就不放。
 
 ### ⑥ AI 審查（新對話）
 另開一個**全新的對話**（Claude Code：派一個子代理；其他工具：開新視窗），只給 `slides/<id>/script.md` 與 `slides/<id>/cards/`，提示詞：
